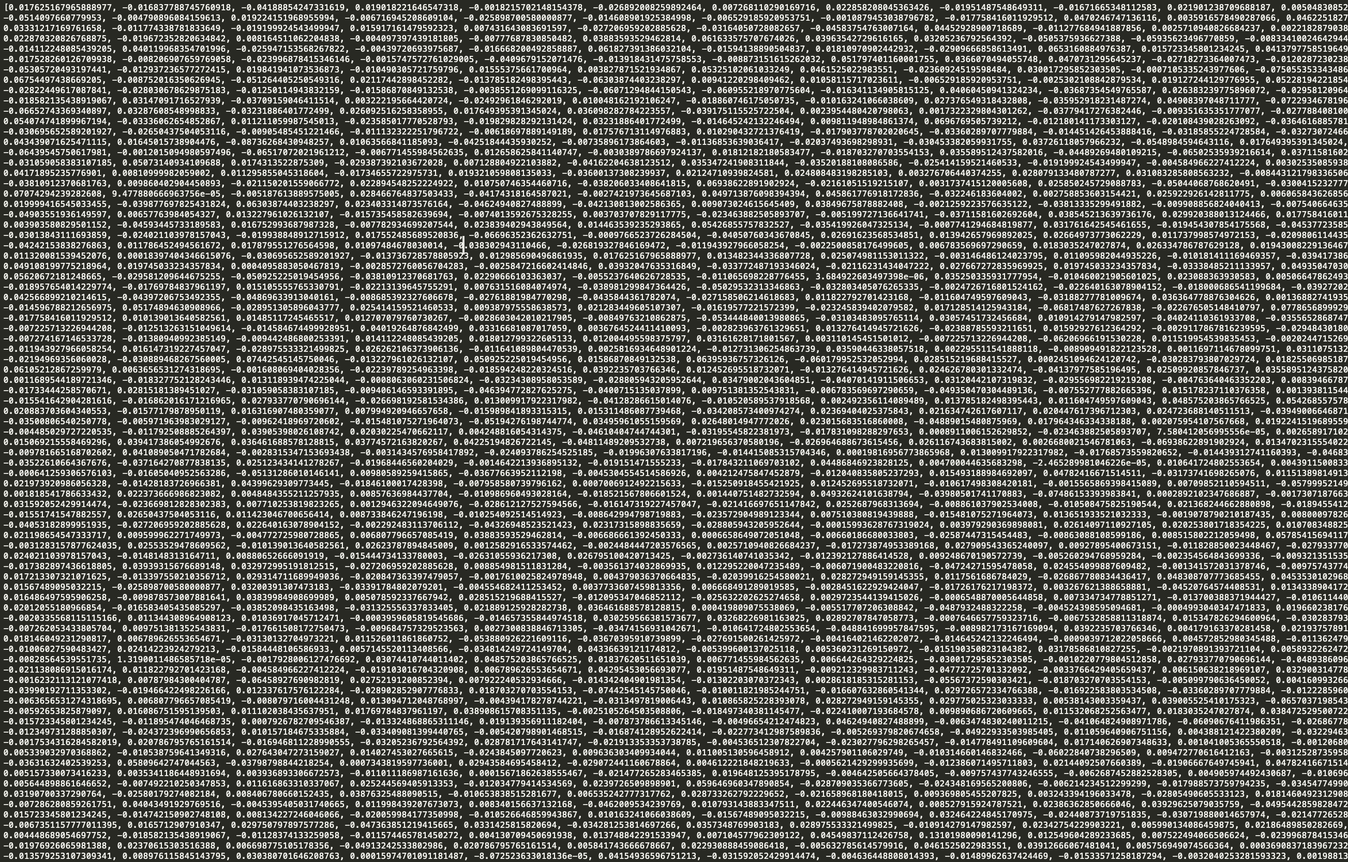
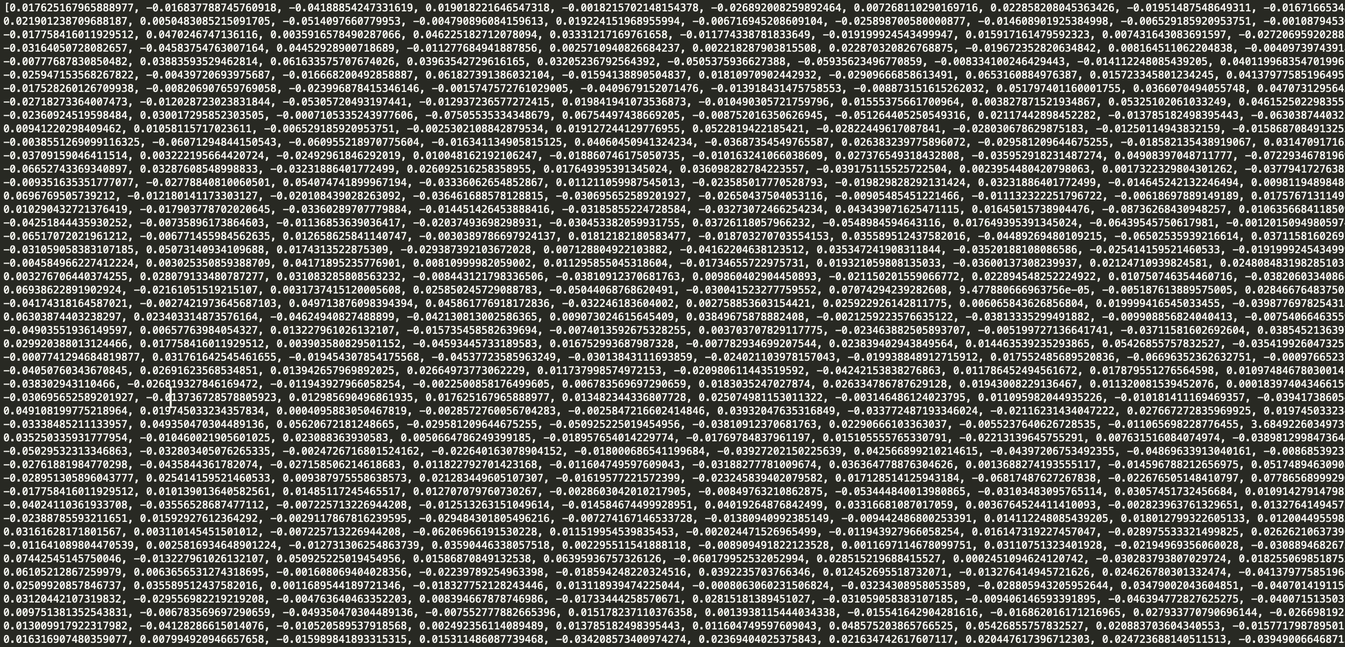
Fix old posts and analytics

diff --git a/_includes/google-analytics.html b/_includes/google-analytics.html
@@ -1,9 +1,14 @@
+<script async src="https://www.googletagmanager.com/gtag/js?id=UA-27168505-1"></script>
 <script>
-  (function(i,s,o,g,r,a,m){i['GoogleAnalyticsObject']=r;i[r]=i[r]||function(){
-  (i[r].q=i[r].q||[]).push(arguments)},i[r].l=1*new Date();a=s.createElement(o),
-  m=s.getElementsByTagName(o)[0];a.async=1;a.src=g;m.parentNode.insertBefore(a,m)
-  })(window,document,'script','//www.google-analytics.com/analytics.js','ga');
+  // (function(i,s,o,g,r,a,m){i['GoogleAnalyticsObject']=r;i[r]=i[r]||function(){
+  // (i[r].q=i[r].q||[]).push(arguments)},i[r].l=1*new Date();a=s.createElement(o),
+  // m=s.getElementsByTagName(o)[0];a.async=1;a.src=g;m.parentNode.insertBefore(a,m)
+  // })(window,document,'script','//www.google-analytics.com/analytics.js','ga');
 
-  ga('create', '{{ site.data.settings.google-ID }}', 'auto');
-  ga('send', 'pageview');
+  // ga('create', '{{ site.data.settings.google-ID }}', 'auto');
+  // ga('send', 'pageview');
+  window.dataLayer = window.dataLayer || [];
+  function gtag(){dataLayer.push(arguments);}
+  gtag('js', new Date());
+  gtag('config', 'UA-27168505-1');
 </script>

diff --git a/_posts/2022-03-17-leaving-standard.md b/_posts/2022-03-17-leaving-standard.md
@@ -24,34 +24,34 @@ When I told people I was leaving, invariably they'd ask "why?". "Why?" was a que
 
 |Year | Motivation|
 | ----- | ----- |
-|0-2| [The 0 to 1 Problem](#0-2)|
+|0-2| [Zero to One](#0-2)|
 |2-3| [People](#2-3) |
 |3-4| [People Problems](#3-4)|
-|4-5| [Reports](#4-5) |
+|4-5| [Team](#4-5) |
 
-### <a name="0-2">Years 0-2</a>
+### <a name="0-2">Years 0-2</a>: Zero to One
 
 My initial motivation was the zero-to-one romanticism of answering the question "Is this possible?" It was thrilling to start a project from scratch with talented friends where no one, ourselves included, knew if we would succeed to even make a prototype. Amazon Go hadn't yet been announced, "autonomous checkout" was outside the lexicon of society, and in early 2017 the only serious business application for deep learning was self-driving cars. I felt we were at the frontiers of the possible and in a greenfield industry. We were looking firmly out into the future. This was motivation enough for me to quit my job, move across the country and take the leap.
 
 **The lesson I learned** amidst this excitement is that your motivation needs to be sustained beyond the zero-to-one problem; you truly need to want your idea to blanket the Earth. In Summer of 2018 we launched the first (outside Amazon Go) autonomous-checkout store open to the public. It was a euphoric high and an affirmation of the driving question that motivated me most. I didn't realize until later, though, it was simultaneously the loss of an irreplaceable drive.
 
-### <a name="2-3">Years 2-3</a>
+### <a name="2-3">Years 2-3</a>: People
 
-After the first demonstration of autonomous checkout, there were plenty of audacious challenges yet before us. Over the next few years we would launch our first retailer retrofit, and later our first large-format convenience store retrofit. Each took a year of sweat and tears to push our product further than it had ever been. These new challenges, though, were met with another reality: the need to transition from building the product, to building the company that builds the product. 
+After the first demonstration of autonomous checkout, there were plenty of audacious challenges yet before us. Over the next few years we would launch our first retailer retrofit, and later our first large-format convenience store retrofit. Each took a year of sweat and tears to push our product further than it had ever been. These new challenges, though, were met with another reality: the need to transition from building the product, to building the company that builds the product.
 
 This maxim can be bittersweet for those motivated by being hands-on. You hire others not to tell them what to do, but to give them ownership so they can apply their own energy and become creators themselves. In doing so, you move further from the product yourself. The motivation of building shifted to the motivation of inspiring. Sounds lovely, but it was simultaneously a loss. I let go of the technical and hands-on and moved toward the social: working alongside others, strengthening relationships and being motivated by motivating others.
 
 **The lesson I learned** is that you need to be motivated most by building the company over building the product. I liked to code, I liked to be in the details, and I had a firm vision of the result. All of these I had to let go of, and each was painful. I found that to make a product succeed, you needed to love it less. At least, I needed to be not so particular in my love.
 
-### <a name="3-4">Years 3-4</a>
+### <a name="3-4">Years 3-4</a>: People Problems
 
-As Standard grew, I noticed the company was growing faster than I was. I worked alongside many people, but they were carefully chosen: they were the ones that gave me energy. I gravitated towards the engineers and researchers. Suddenly, I realized this group was but a fraction of our headcount. I learned that to support the things I cared about, I needed to spend time equally across the company. This sounds obvious, but what it means in practice is that you force yourself into that which doesn't energize you. I had to invest in relationships and build empathy with the problems of others. I had to work with finance, legal, HR, marketing, BD and work less with the people whose problems I would think about for fun. 
+As Standard grew, I noticed the company was growing faster than I was. I worked alongside many people, but they were carefully chosen: they were the ones that gave me energy. I gravitated towards the engineers and researchers. Suddenly, I realized this group was but a fraction of our headcount. I learned that to support the things I cared about, I needed to spend time equally across the company. This sounds obvious, but what it means in practice is that you force yourself into that which doesn't energize you. I had to invest in relationships and build empathy with the problems of others. I had to work with finance, legal, HR, marketing, BD and work less with the people whose problems I would think about for fun.
 
 It was here that I realized just how many principal-agent problems there are in a company. Natural tensions across so many departments. Technical problems were in my rear-view mirror; now my life was people problems. I learned and grew the most in this time as I forced myself to lean into all that which drained my energy: conflict, misalignment, frustration. I learned to listen and sympathize especially when I disagreed. I actually found it incredibly motivating to move the ball forward in these situations. I thought to myself, "where else except at a company I founded would I be at the center of such problems?" To my surprise, this was my new inspiration.
 
 **The lesson I learned** is that you will end up spending a lot of time in conflict and discomfort, and you will constantly need to lean into these situations rather than away. It's critical that there be a higher calling that sustains you, and that for me was beginning to wane.
 
-### <a name="4-5">Years 4-5</a>
+### <a name="4-5">Years 4-5</a>: Team
 
 The company was growing more quickly now and I found myself, again, falling behind. This time, though, I had greater difficulty finding the energy to get ahead of it. My attention and motivation turned inwards rather than outwards; focused almost exclusively on the teams reporting to me instead of those around me. These were the careers I was directly responsible for. As I let myself explore thoughts of leaving, the most palpable feeling was that of betrayal toward those reporting to me. In fact, as I scanned my feelings this was pretty much the only motivation left. That's how I knew it was now a matter of time. But there was still another lesson to learn.
 
@@ -67,19 +67,19 @@ My final motivation was met, and I had not sought its replacement. I was ready t
 
 Several weeks went by as we formalized and enacted a transition plan. There was a roller coaster of feelings as I met people one-on-one. At the end was a feeling that lingered. I've always thought the best way to convey an experience is to find the fewest words that strike at its heart. There's always a top-order bit. So I challenged myself to find a single word to encapsulate it. I found the Yiddish word [naches](https://jel.jewish-languages.org/words/394), roughly defined as the pride you feel a creation, typically your children. This was the feel I landed on last.
 
-At 4:59pm on my last day I messaged our IT admin, Steve. It was my final conversation as an employee. 
+At 4:59pm on my last day I messaged our IT admin, Steve. It was my final conversation as an employee.
 
 "So... am I going to see a light?" I asked.
 
 "LOL. Don't let go Dave!" he replied.
 
-With the "Steve is typing..." indicator down below, the clock struck 5:00pm and the screen flashed. I saw a light after all as I found myself staring at a log-out window, very much alone in the stillness of my living room.
+With the "Steve is typing..." indicator down below, the clock struck 5:00pm and the screen flashed white. I saw a light after all as I found myself staring at a light-mode themed log-out window, very much alone in the stillness of my living room.
 
 -------------------------
 
 ## <a name="living">Living with the Decision</a>
 
-In the days after what I felt was absence, longing, an overwhelming retraction of connection. The visual that came to mind was a tuft of hair singed and recoiled against a flame. I had invested in so many relationships over so much time. I knew the names of just about everyone. I knew their motivations, their concerns, what plans they had for the weekend. For some I was directly responsible for, and emotionally invested in, their careers. 
+In the days after what I felt was absence, longing, an overwhelming retraction of connection. The visual that came to mind was a tuft of hair singed and recoiled against a flame. I had invested in so many relationships over so much time. I knew the names of just about everyone. I knew their motivations, their concerns, what plans they had for the weekend. For some I was directly responsible for, and emotionally invested in, their careers.
 
 Over five years I made sure to feel everything in the company and not turn away. I felt births, I felt death, I felt loss and despair, hope and optimism, tragedy and comedy. I visited people in hospitals. I popped bottles of champaign. We shared the depths of the trenches and the heights of celebration. It was my job to feel. You can't lead if you don't feel. And overnight and in the days that followed, all that feeling was replaced by an overwhelming stillness. I had to let myself feel that, too.
 

diff --git a/_posts/2022-04-07-the-explanatory-gap-of-ai.md b/_posts/2022-04-07-the-explanatory-gap-of-ai.md
@@ -4,7 +4,7 @@ title: The Explanatory Gap of AI
 date: 2022-04-07
 excerpt: A mystic's guide to whether an AI can understand.
 image: explanatory_gap/as_above_so_below_16x9.jpg
-caption: Text-to-image generation by Midjourney for the caption "As above. So below."
+caption: Text-to-image of "As above, so below" by Midjourney
 ---
 
 If an AI understands is a topic of debate. Seldom debated, however, are the limits of our own understanding. We conceptualize our understanding as complete and establish this as a baseline for AI's. When we consider our understanding as incomplete a different story emerges altogether.
@@ -13,16 +13,16 @@ The fundamental issue goes like this:
 
 An AI may describe an apple as "sweet" though it has never tasted one, "red" though it has never seen one, and "smooth" though it has never felt one. So while an AI may skillfully describe an apple and use the word appropriately in context, in what way, if any, can we say it understands “apple"?
 
-Steven Sarnad coined this the “symbol grounding problem." He reasoned that symbols we use as references must be grounded, or referent, in phenomena to be meaningful. After all, the word “apple” when written in a book has no meaning on its own. It's only when the word is read, and the reference and referent linked in a mind, that it takes on meaning. He writes that meaning of symbols is “parasitic on the meanings in our heads”.[^1] To Sarnad an AI doesn’t understand because it does not ground symbols in their referents; only minds host meaning.
+Steven Sarnad coined this the *symbol grounding problem*. He reasoned that symbols we use as references must be grounded, or referent, in phenomena to be meaningful. After all, the word “apple” when written in a book has no meaning on its own. It's only when the word is read, and the reference and referent linked in a mind, that it takes on meaning. He writes that the meaning of symbols is “parasitic on the meanings in our heads”.[^1] To Sarnad an AI doesn’t understand because it does not ground symbols in their referents; only minds host meaning.
 
-Yet now we have AIs like OpenAI's Dall-E that seem to ground text in images[^2]. Is Sarnad wrong? Do these AIs understand something previous ones did not? Predating Sarnad, John Searle addressed the issue. In Minds, Brains and Programs, Searle fashions then refutes the “Robot Reply” argument. He describes an AI that would “have a television camera attached to it that enabled it to 'see' it would have arms and legs that enabled it to 'act' and all of this would be controlled by its computer 'brain’.”[^3] Yet to Searle, this “adds nothing” to the argument. We are simply introducing more symbols, and to exploit correlations of symbols between modalities is no different than exploiting correlations within one. To Searle, grounding was neither the problem, nor the solution, to semantics emerging from syntax.
+Yet now we have AIs like OpenAI's Dall-E that seem to ground text in images[^2]. Is Sarnad wrong? Do these AIs understand something previous ones did not? Predating Sarnad, John Searle addressed the issue. In his paper Minds, Brains and Programs, Searle fashions then refutes the *Robot Reply* argument. He describes an AI that would “have a television camera attached to it that enabled it to 'see' it would have arms and legs that enabled it to 'act' and all of this would be controlled by its computer 'brain’.”[^3] Yet to Searle, this “adds nothing” to the argument. We are simply introducing more symbols, and to exploit correlations of symbols between modalities is no different than exploiting correlations within one. To Searle, grounding was neither the problem, nor the solution, to semantics emerging from syntax.
 
 > The computer understanding is not just...partial or incomplete; it is zero.
 *John Searle - Minds, Brains, and Programs*
 
 So just what is a grounded AI lacking? On this question, Sarnad and Searle are silent. Less silent, though, were the empiricists predating them. We attempt to get at our question by asking what they asked: what are human minds lacking?
 
-The empiricists accept that the sweetness, redness and smoothness of an apple -- the phenomona of apple -- is a manifestation of our minds. Outside the mind, apples have no taste, color or texture. To know what an “apple” is outside the mind is to know what Kant called the noumena of an apple: the apple “in itself.” Kant acknowledged that this noumenal reality can only be “accepted on faith” and famously called this the “scandal to philosophy.”[^4] Many philosophers grappled with this dilemma over time. Hume considered our belief in external objects a “gross absurdity”.[^5] Berkeley denied not only our knowledge of external reality, but its very existence.[^6] Several centuries later and the issue is far from settled.
+The empiricists accept that the sweetness, redness and smoothness of an apple -- the phenomena of apple -- is a manifestation of our minds. Outside the mind, apples have no taste, color or texture. To know what an “apple” is outside the mind is to know what Kant called the noumena of an apple: the apple “in itself.” Kant acknowledged that this noumenal reality can only be “accepted on faith” and famously called this the “scandal to philosophy.”[^4] Many philosophers grappled with this dilemma over time. Hume considered our belief in external objects a “gross absurdity”.[^5] Berkeley denied not only our knowledge of external reality, but its very existence.[^6] Several centuries later and the issue is far from settled.
 
 So what is a human mind lacking? To the empiricists one answer is we lack understanding of the noumena.
 
@@ -30,9 +30,9 @@ After all, our brains receive only representations of external reality: electric
 
 Similarly, AIs receive only representations of our phenomenological experience: word tokens for language, RGB matrices for images, etc. AIs are hopeless to know what our experience is at its most fundamental level -- its nature eludes them. AIs feast on computational reality and know its referent not.
 
-What makes reasoning about AI semantics confusing is this a compositional nature to the problem. The input to an AI is a representation of our output. Its syntax is our phenomena cast into bits. An image of an apple, after all, is a representation of our visual experience. The word "apple" is a representation of our semantic concept. Our realities are not adjacent; they are nested. **Our phenomena is the AI’s noumena.**
+What makes reasoning about AI semantics confusing is its compositional nature. The input to an AI is a representation of our output. Its syntax is our phenomena cast into bits. An image of an apple, after all, is a representation of our visual experience. The word "apple" is a representation of our semantic concept. Our realities are not adjacent; they are nested. **Our phenomena is the AI’s noumena.**
 
-The philosopher Colin McGinn, founder of the epistemological school of “Mysterianism”, posited that certain properties can both exist and be fundamentally unknowable to a mind. A mind's "cognitive closure" is all that can be knowable to it, but other minds may not be so limited. McGinn argues the noumenal/phenomenal correspondence as one example lying outside our own cognitive closure; perhaps knowable, just not by us.[^7]
+The philosopher Colin McGinn, founder of the epistemological school of *Mysterianism*, posited that certain properties can both exist and be fundamentally unknowable to a mind. A mind's *cognitive closure* is all that can be knowable to it, but other minds may not be so limited. McGinn argues the noumenal/phenomenal correspondence as one example lying outside our own cognitive closure; perhaps knowable, just not by us.[^7]
 
 >What is noumenal for us may not be miraculous itself. We should therefore be alert to the possibility that a problem that strikes us as deeply intractable...may arise from an area of cognitive closure in our way of representing the world.
 *Colin McGinn - The Problem of Philosophy*
@@ -47,7 +47,7 @@ A biblical allegory comes from the Hebrew interpretations of the Book of Genesis
 When we experience words, we experience them conceptually. When we experience images, we experience them visually. Like the Angels, we are thrust into this awareness -- their phenomenal nature revealed sans mediation. An AI is masked from this perception by a computational flesh. A representation, fashioned in the likeness of our phenomena, is needed. Like the Angels, we are baffled by these representations, unable to grasp their significance.
 
 ![Apple](assets/img/explanatory_gap/apple.png)
-*The word "apple" according to an AI (OpenAI's tokenizer)*
+*The word "apple" according to an AI*
 
 Does an AI understand? I answer: it understands a reality grounded in the computational, which is itself grounded in the phenomenological, which is itself grounded in the incomprehensible.
 
